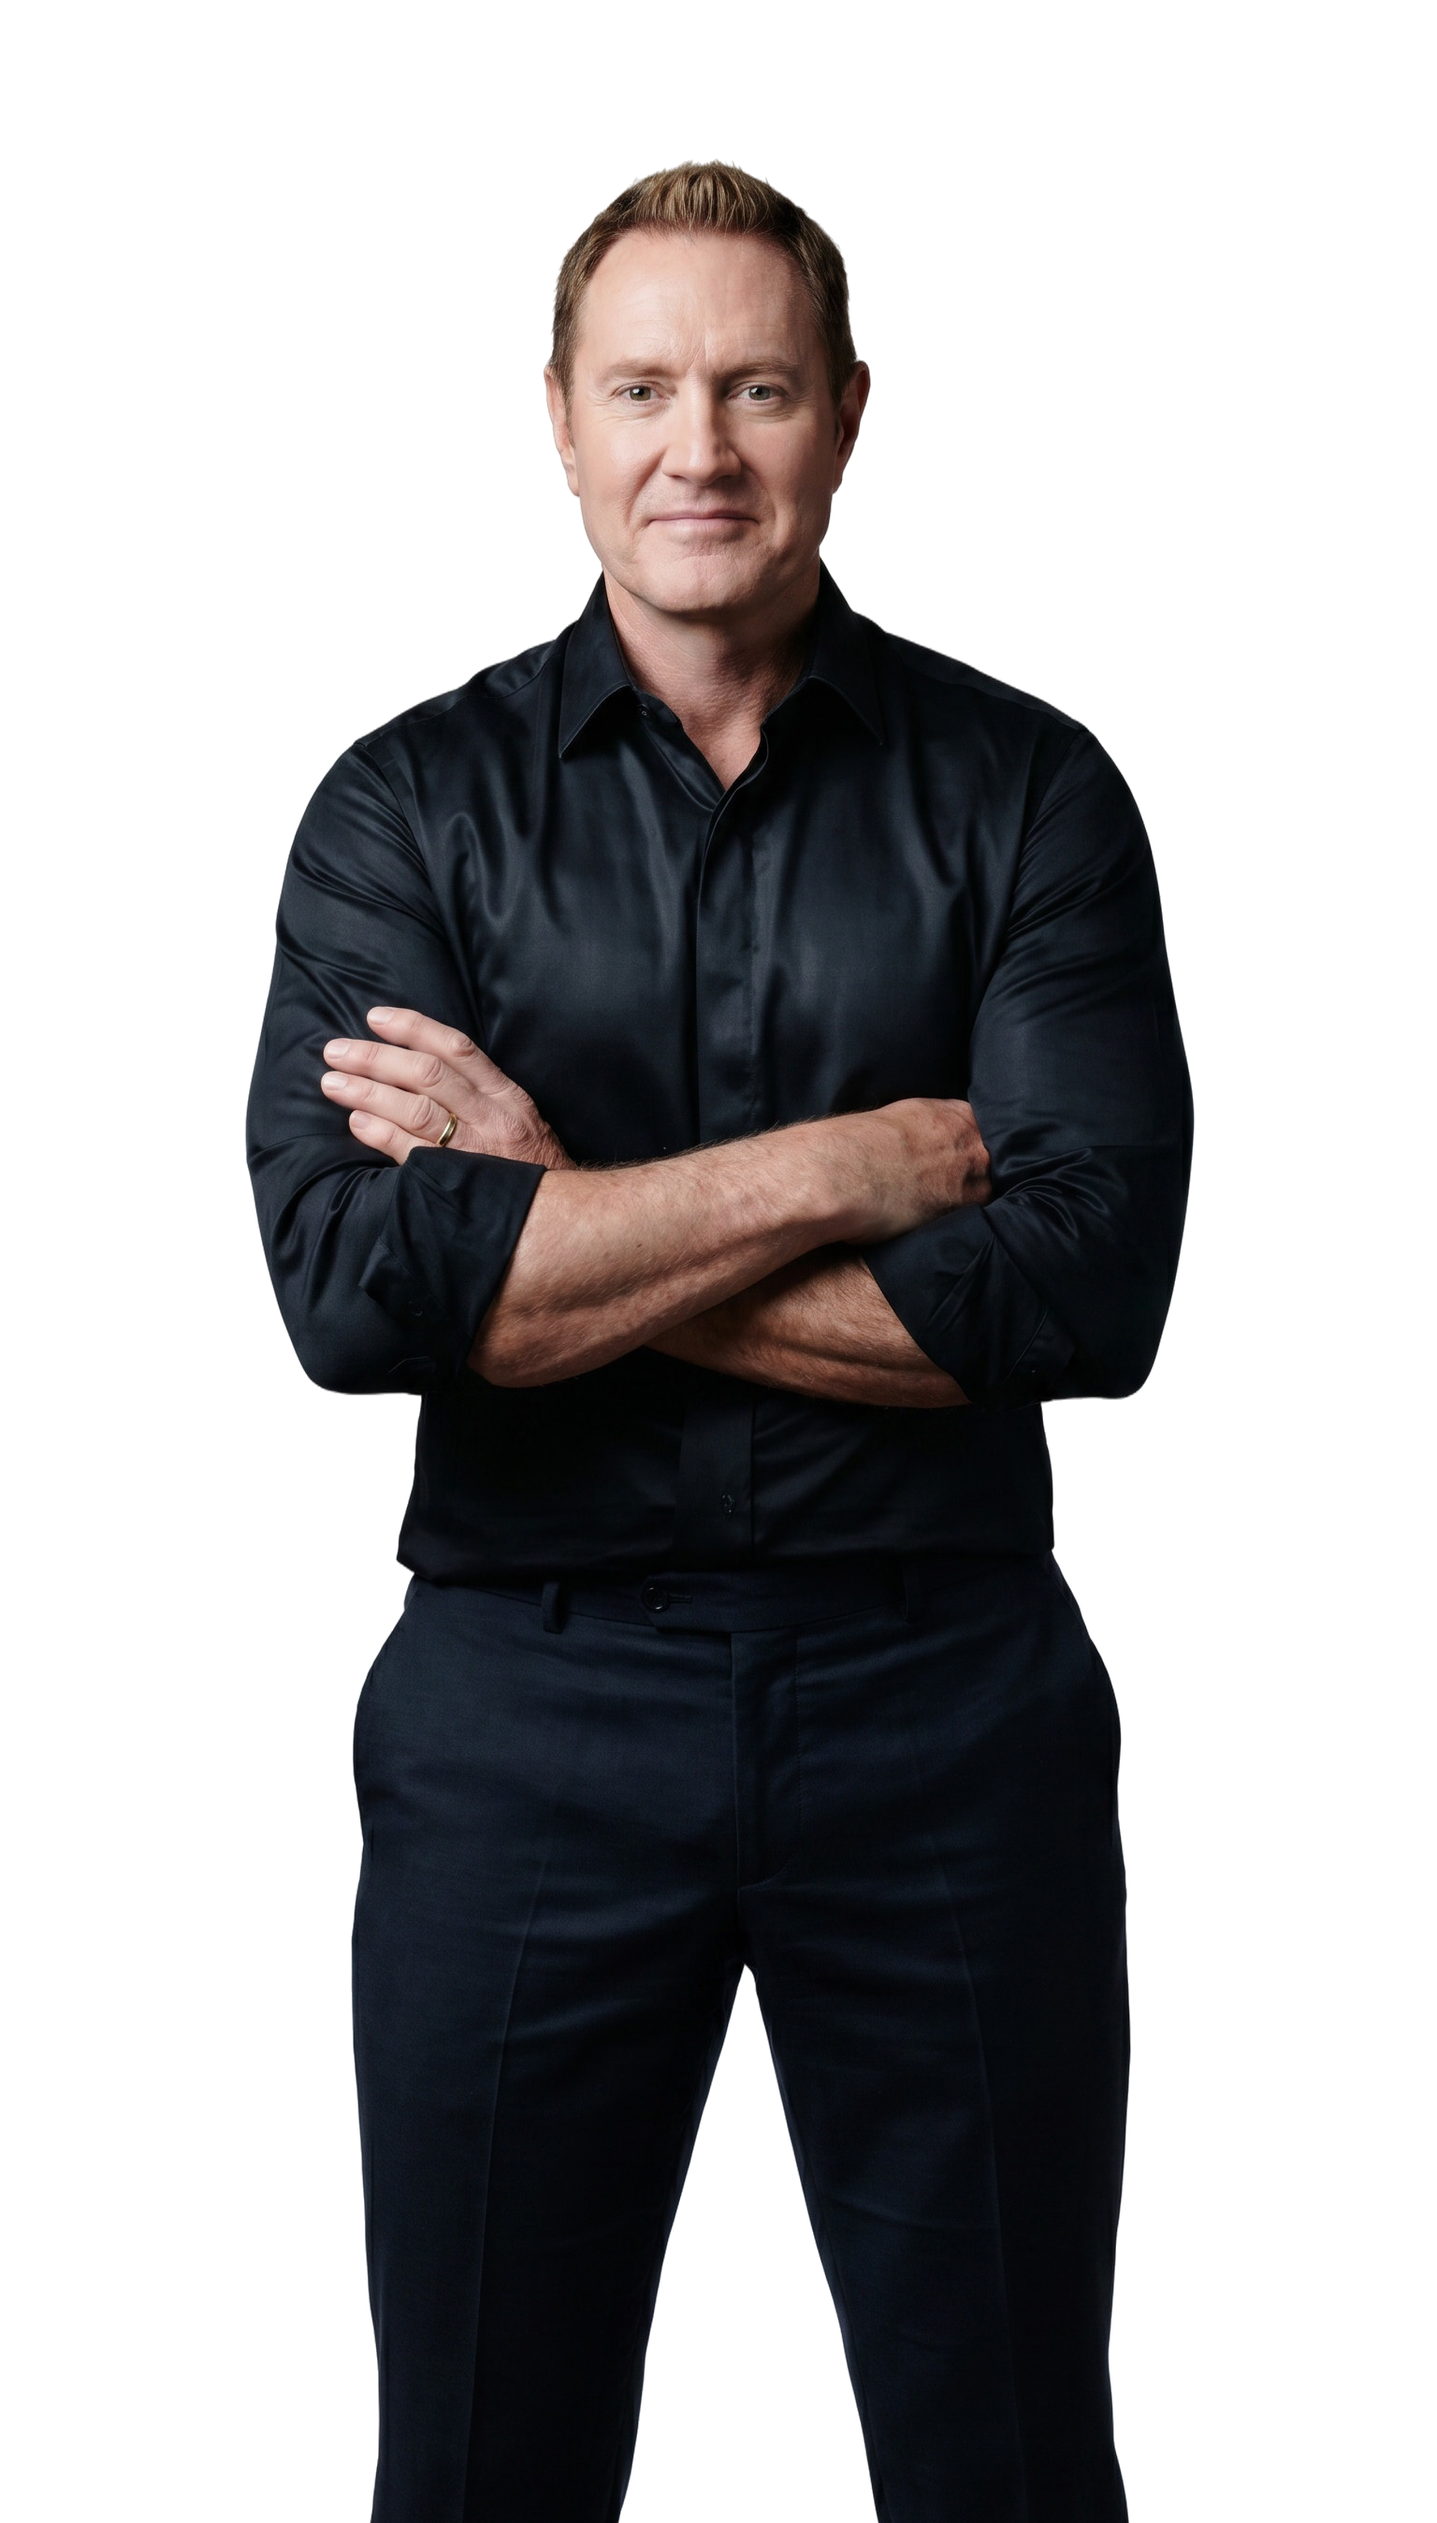
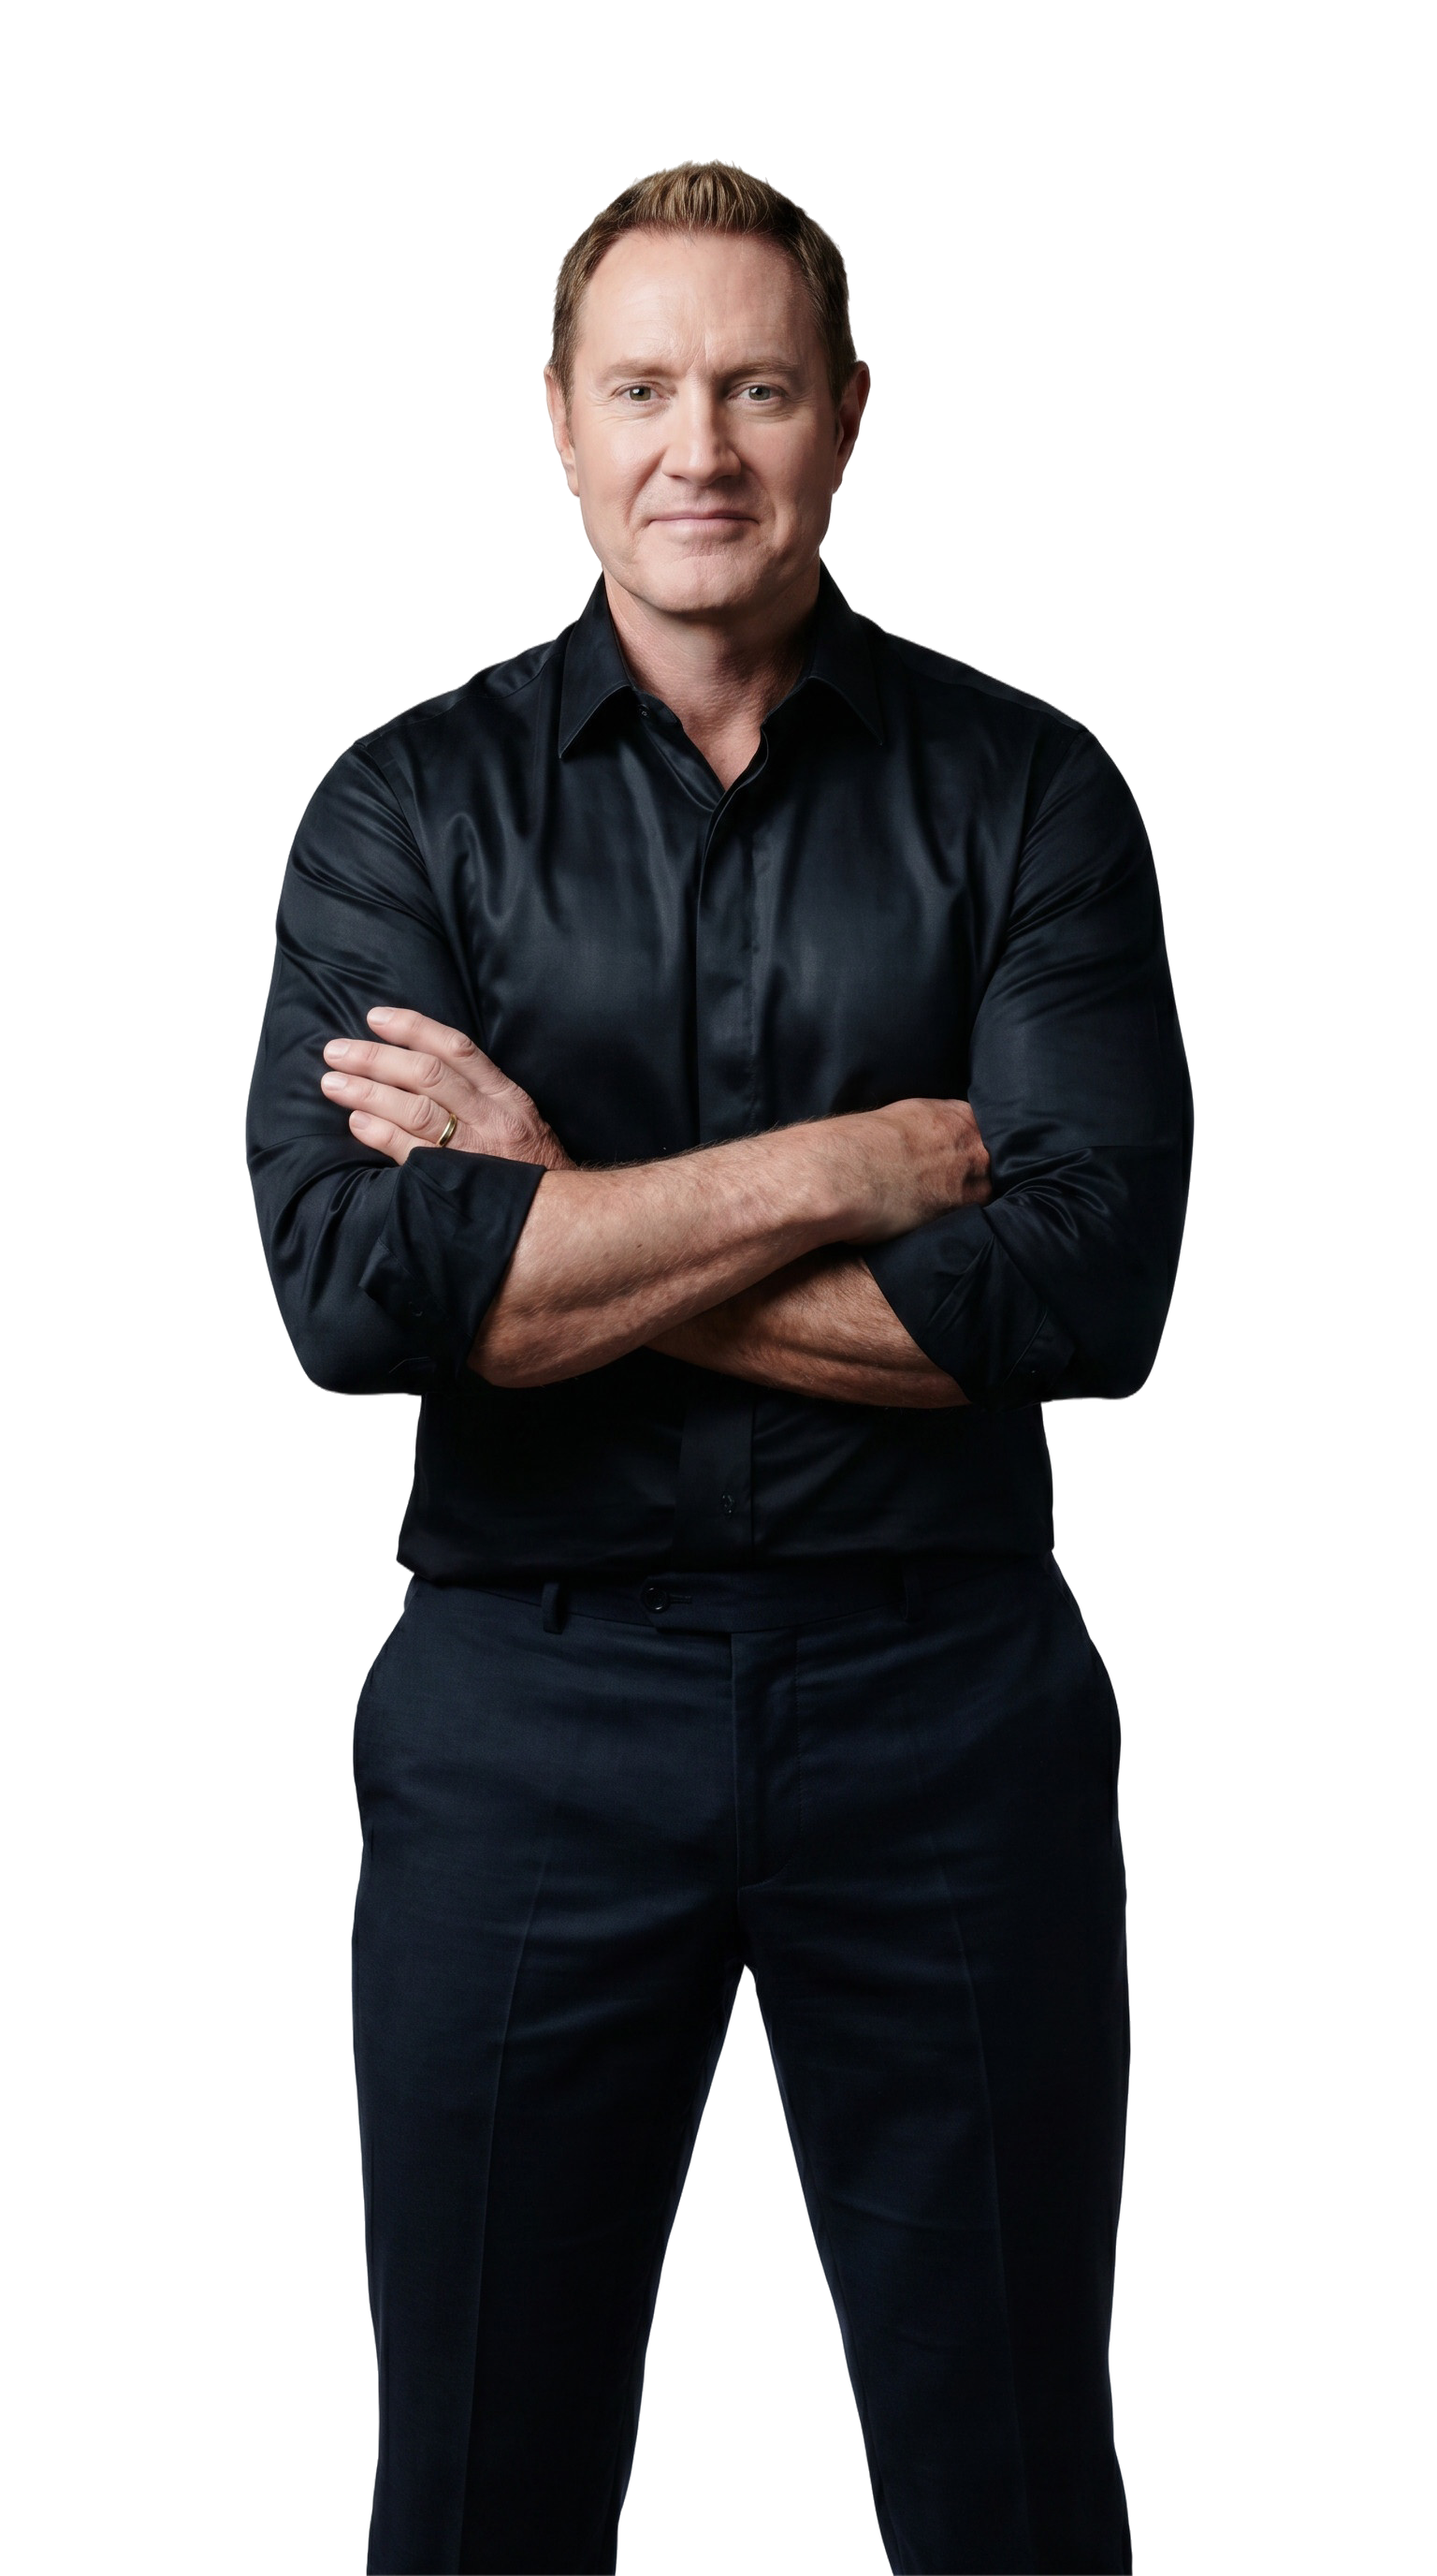
About: restore full-length wall DH image + retune anchor
My earlier crops were progressively REMOVING leg height (74%->88%->98%
of an already full-length source), making him shorter each time. The
original is full-length: figure runs head (6% from top) to feet (bottom
edge), no transparent margin. Restored the untouched original to the repo
and set .access-dh to top:24% / height:102% (mobile top:20% / 94%) so his
head sits at the eyebrow line and the full legs extend down past the
wall's bottom edge (clipped by overflow).

diff --git a/about.html b/about.html
@@ -583,9 +583,9 @@
   /* DH cutout fixed over the covers wall */
   .access-dh {
     position: absolute;
-    top: 22%; left: 50%;
+    top: 24%; left: 50%;
     transform: translateX(-50%);
-    height: 94%;
+    height: 102%;
     z-index: 6;
     pointer-events: none;
     display: flex;
@@ -593,7 +593,7 @@
   }
   .access-dh picture { display: contents; }
   .access-dh img { height: 100%; width: auto; display: block; }
-  @media (max-width: 960px) { .access-dh { top: 18%; height: 86%; } }
+  @media (max-width: 960px) { .access-dh { top: 20%; height: 94%; } }
 
   /* RIGHT — copy column on dark */
   .access-text {
